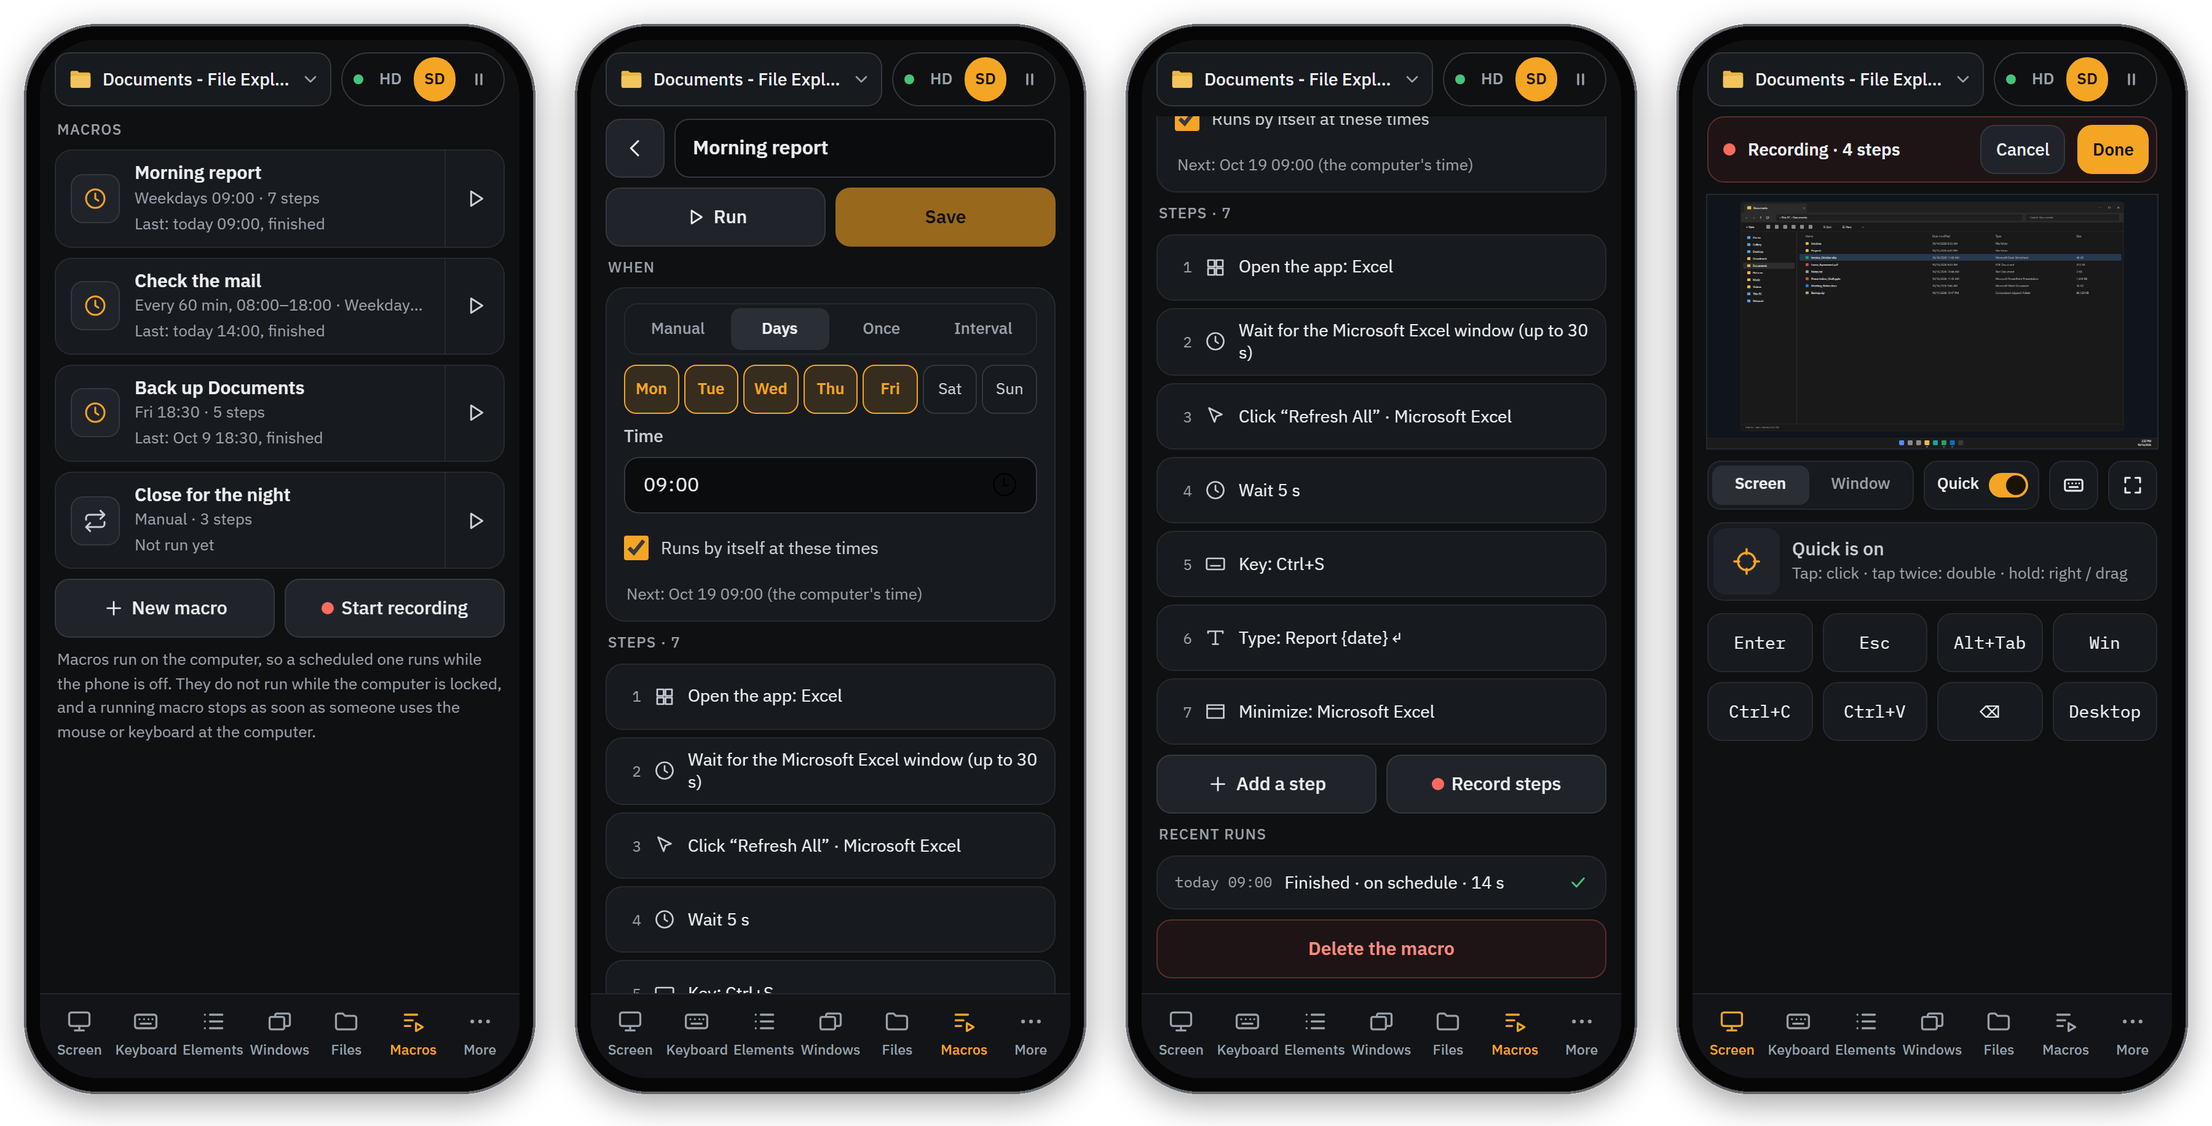
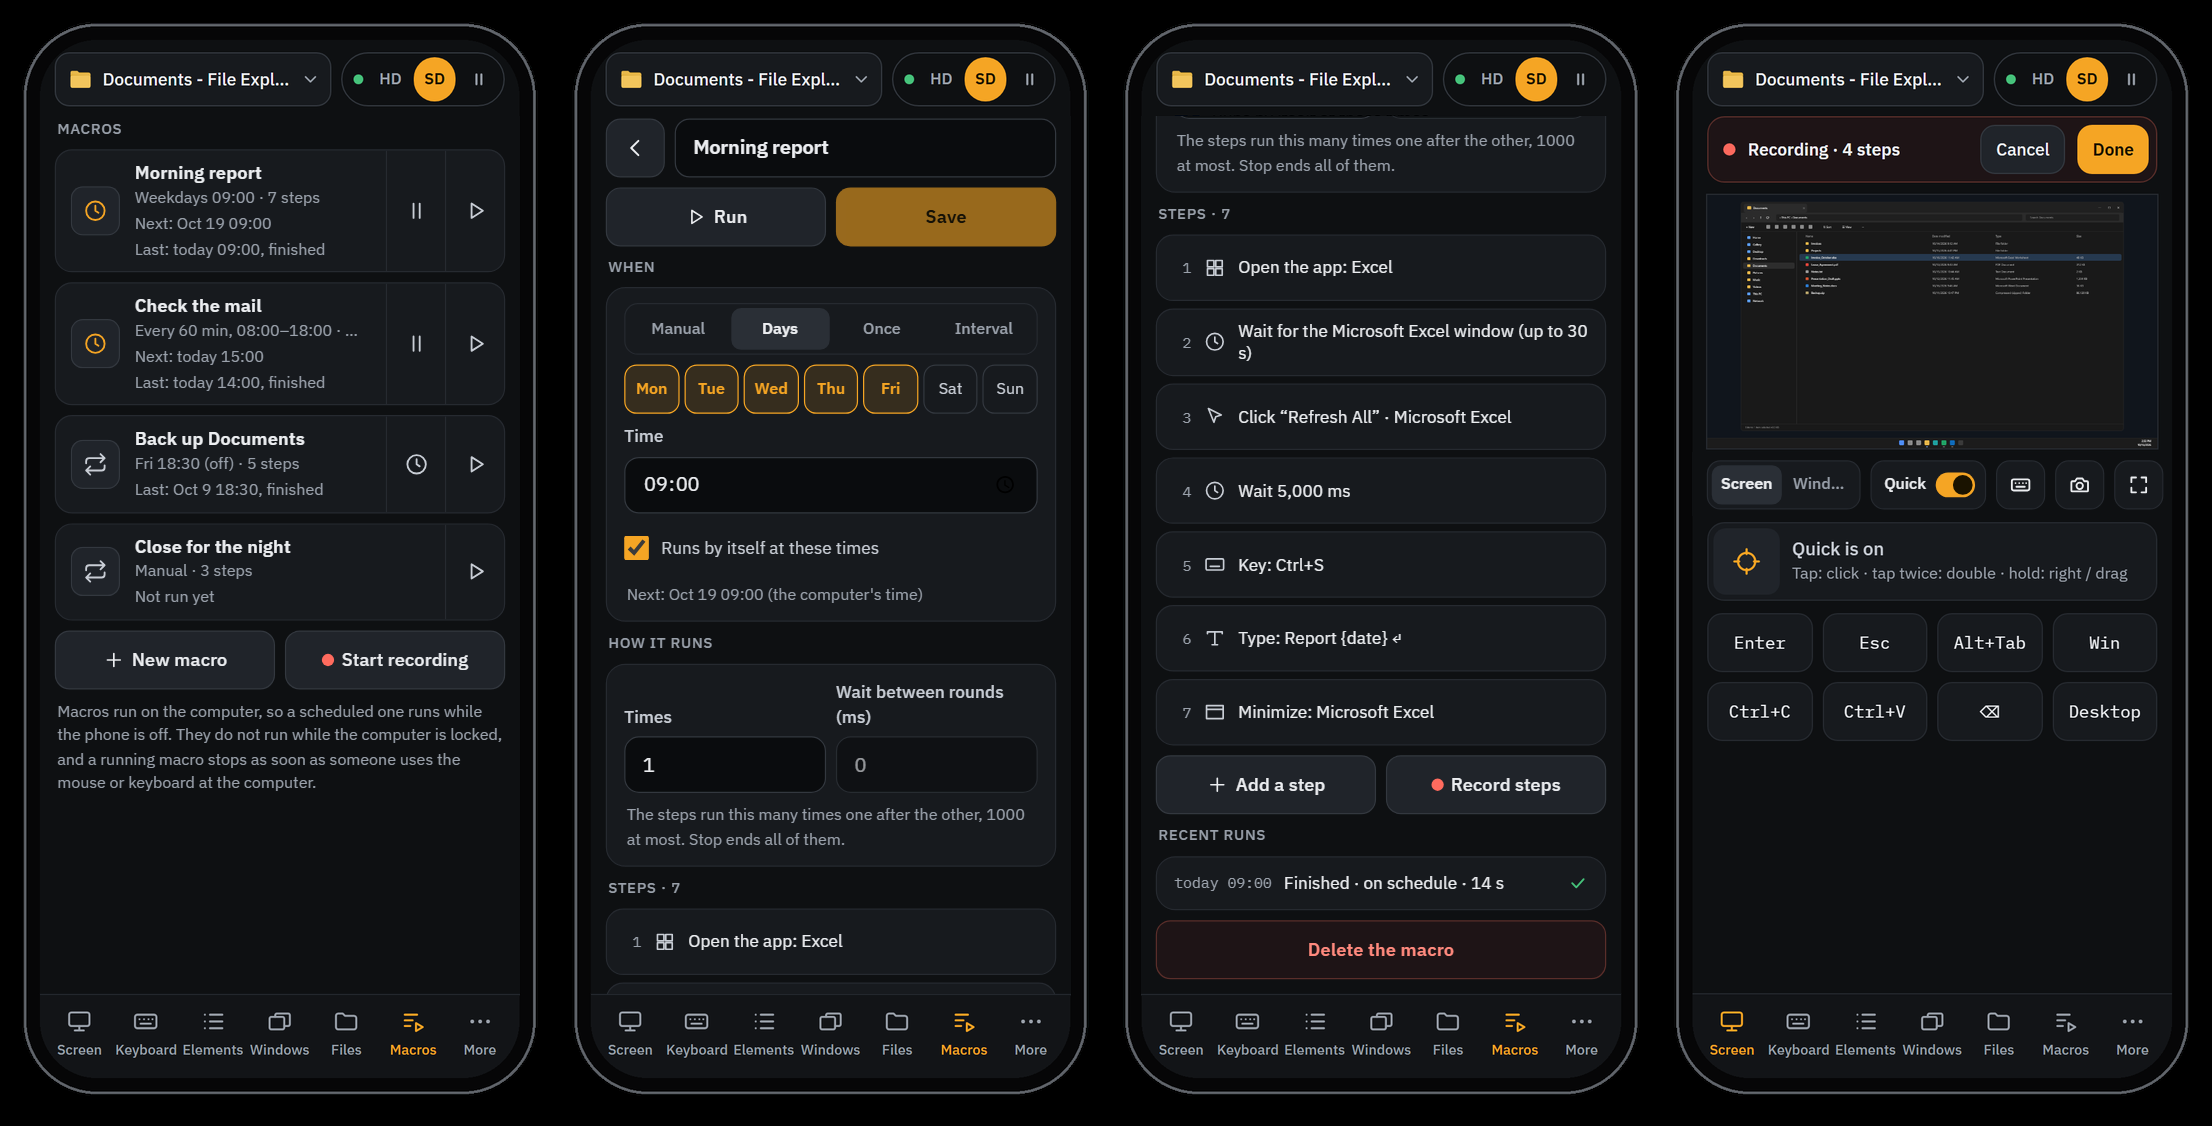
Docs: the pictures show 2.2
The macros picture is drawn again: pause buttons and the next start in the list, the "How it runs" card in
the editor, waits in milliseconds. The screenshot button is added where the panel, tablet, full screen and
recording pictures show the Screen toolbar or the full-screen corner.

Claude-Session: https://claude.ai/code/session_015eyhVC3avEaX2zJ5eYyTPU

diff --git a/README.md b/README.md
@@ -160,7 +160,7 @@ On an iPhone a web page can neither fill the screen nor turn itself sideways, so
 turns the full screen instead: turn the phone to the left, with rotation lock on or off. While the keyboard is
 open, it stands upright.
 
-<img src="docs/fullscreen.png" alt="The panel in full screen on a phone held sideways, with the crosshair on a file and the click bar, and the keyboard button and the Quick switch at the bottom right" width="640">
+<img src="docs/fullscreen.png" alt="The panel in full screen on a phone held sideways, with the crosshair on a file and the click bar, the exit and screenshot buttons at the top left, and the keyboard button and the Quick switch at the bottom right" width="640">
 
 **Tablets** (and wide browser windows): the Screen tab fills the page and the image takes all the room the
 controls leave. Held sideways, the tabs move to a rail on the left and the controls sit in one row under the
@@ -191,7 +191,7 @@ either way is logged and shown on the computer's main screen.
 
 ### Macros
 
-<img src="docs/macros.png" alt="The Macros tab on a phone: the list of macros with their schedules and last runs, a macro set to run on weekdays at 09:00, its steps and recent runs, and the Screen tab while recording with Quick on" width="100%">
+<img src="docs/macros.png" alt="The Macros tab on a phone: the list of macros with their schedules, next and last runs and pause buttons, a macro set to run on weekdays at 09:00 with how many times it runs, its steps and recent runs, and the Screen tab while recording with Quick on" width="100%">
 
 A macro is a list of steps that StrCu runs in order on the computer:
 
